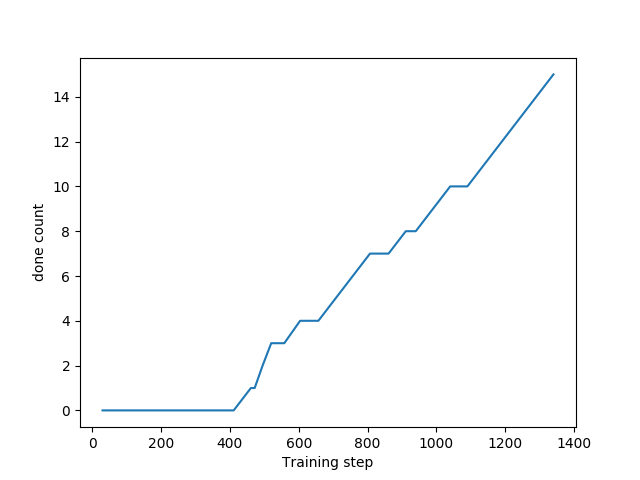
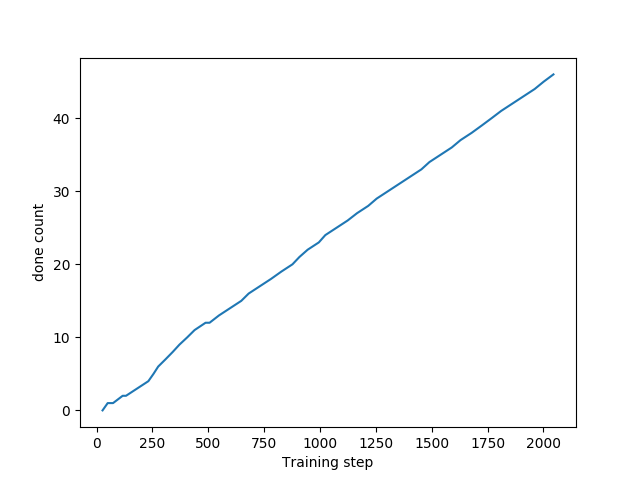
2 models

diff --git a/mpc_assembly.py b/mpc_assembly.py
@@ -94,13 +94,18 @@ class MPC:
         self.E=15
         self.input_size=self.action_dim+self.state_dim
         self.output_size=self.state_dim
-        self.model=ensemble(self.E,self.input_size,self.output_size).to(device)
+        self.model1=ensemble(self.E,self.input_size,self.output_size).to(device)
+        self.model2 = ensemble(self.E, self.input_size, self.output_size).to(device)
         self.has_trained = False
         if load:
-            self.model.load_state_dict(torch.load("/home/ali/RL_code/models/Real_pick_e15_u6_s9+12_p30.pth",map_location=device))
-            self.model.eval()
+            self.model1.load_state_dict(torch.load("/home/ali/RL_code/models/part1_e15_u6_s9+12_p30.pth",map_location=device))
+            self.model1.eval()
+            self.model2.load_state_dict(torch.load("/home/ali/RL_code/models/part2_e15_u6_s9+12_p30.pth", map_location=device))
+            self.model2.eval()
             self.has_trained=True
-        self.model.optim=torch.optim.Adam(self.model.parameters(),lr=0.001)
+        self.model1.optim=torch.optim.Adam(self.model1.parameters(),lr=0.001)
+        self.model2.optim = torch.optim.Adam(self.model2.parameters(), lr=0.001)
+        self.task_part=0
         self.init_rollouts = 5
         self.n_train_iter=50
         self.rol_per_iter=1
@@ -119,8 +124,10 @@ class MPC:
         self.init_variance=np.tile(np.square(self.action_ub-self.action_lb)/16.0,[self.horizon])
         # propagation parameters
         self.n_particles=30
-        self.train_in=np.array([]).reshape(0,self.action_dim+self.state_dim)
-        self.train_out=np.array([]).reshape(0,self.state_dim)
+        self.train_in1=np.array([]).reshape(0,self.action_dim+self.state_dim)
+        self.train_out1=np.array([]).reshape(0,self.state_dim)
+        self.train_in2 = np.array([]).reshape(0, self.action_dim + self.state_dim)
+        self.train_out2 = np.array([]).reshape(0, self.state_dim)
         # for plotting
         self.x=0
         self.count=0
@@ -151,7 +158,8 @@ class MPC:
             states.append(state)
             actions.append(action)
             state, reward, done, inf = self.env.step(action)
-            if inf!=None:
+            if inf!=self.task_part:
+                self.task_part=inf
                 states.pop(-1)
                 actions.pop(-1)
                 continue
@@ -193,19 +201,28 @@ class MPC:
         if not self.has_trained:
             # prepare inputs and output
             D_inputs, D_outputs = self.collect_data(n_rollouts=self.init_rollouts)
-            self.train_in = np.concatenate([self.train_in] + D_inputs, axis=0)
-            self.train_out = np.concatenate([self.train_out] + D_outputs, axis=0)
-            self.train_the_model()
+            self.train_in1 = np.concatenate([self.train_in1] + D_inputs, axis=0)
+            self.train_out1 = np.concatenate([self.train_out1] + D_outputs, axis=0)
+            self.train_the_model(self.model1,self.train_in1,self.train_out1)
         for i in range(num_trials):
             print("start training ...")
             D_inputs, D_outputs = self.collect_data(n_rollouts=self.rol_per_iter)
-            self.train_in = np.concatenate([self.train_in] + D_inputs, axis=0)
-            self.train_out = np.concatenate([self.train_out] + D_outputs, axis=0)
-            self.train_the_model()
+            if self.task_part==0:
+                self.train_in1 = np.concatenate([self.train_in1] + D_inputs, axis=0)
+                self.train_out1 = np.concatenate([self.train_out1] + D_outputs, axis=0)
+            else:
+                self.train_in2 = np.concatenate([self.train_in2] + D_inputs, axis=0)
+                self.train_out2 = np.concatenate([self.train_out2] + D_outputs, axis=0)
+            self.train_the_model(self.model1,self.train_in1,self.train_out1)
+            if self.task_part == 0:
+                self.train_the_model(self.model2,self.train_in2,self.train_out2)
+
             # self.evaluate(trial=i)
         # self.env.out.release()
-        torch.save(self.model.state_dict(),"/home/ali/RL_code/models/Real_pick_e15_u6_s9+12_p30.pth")
-        print("model saved!")
+            if i%5==0:
+                torch.save(self.model1.state_dict(),"/home/ali/RL_code/models/part1_e15_u6_s9+12_p30.pth")
+                torch.save(self.model2.state_dict(), "/home/ali/RL_code/models/part2_e15_u6_s9+12_p30.pth")
+                print("model saved!")
         plt.figure()
         plt.plot(self.xx, self.returns)
         plt.xlabel('Training step')
@@ -234,7 +251,7 @@ class MPC:
         for t in train_range:
             action = self.act(state)
             x += 1
-            state, reward, done, _ = self.env.step(action)
+            state, reward, done, self.task_part = self.env.step(action)
             if self.env.task_part==0:
                 center=self.env.part_1_center
             else:
@@ -254,11 +271,11 @@ class MPC:
         plt.show()
 
 
-    def train_the_model(self):
-        self.model.get_input_stats(self.train_in)
+    def train_the_model(self,model,train_in,train_out):
+        model.get_input_stats(train_in)
         # sample from the data
         # E datasets, one for each neural network in the ensemble
-        idx=np.random.randint(self.train_in.shape[0],size=[self.E,self.train_in.shape[0]])
+        idx=np.random.randint(train_in.shape[0],size=[self.E,train_in.shape[0]])
         epoch_range=trange(self.epochs)
         num_batches=int(np.ceil(idx.shape[-1]/self.batch_size))
         for _ in epoch_range:
@@ -266,30 +283,30 @@ class MPC:
                 # take a batch
                 b_indx=idx[:,b*self.batch_size:(b+1)*self.batch_size]
                 # define the loss of the uncertainty and decay
-                loss=0.01*(self.model.max_logvar.sum()-self.model.min_logvar.sum())
-                loss+=self.model.compute_decays()
+                loss=0.01*(model.max_logvar.sum()-model.min_logvar.sum())
+                loss+=model.compute_decays()
                 # move data to GPU
-                train_in=torch.from_numpy(self.train_in[b_indx]).to(device).float()
-                train_out=torch.from_numpy(self.train_out[b_indx]).to(device).float()
+                train_in_=torch.from_numpy(train_in[b_indx]).to(device).float()
+                train_out_=torch.from_numpy(train_out[b_indx]).to(device).float()
                 # compute the output of the model
-                mean,logvar=self.model(train_in)
+                mean,logvar=model(train_in_)
                 # print(logvar)
                 inv_var=torch.exp(-logvar)
                 # compute the losses (to a scalar)
-                train_losses=((mean-train_out)**2)*inv_var+logvar
+                train_losses=((mean-train_out_)**2)*inv_var+logvar
                 train_losses=train_losses.mean(-1).mean(-1).sum()
                 # compute the full loss
                 loss+=train_losses
                 # train the model
-                self.model.optim.zero_grad()
+                model.optim.zero_grad()
                 loss.backward()
-                self.model.optim.step()
+                model.optim.step()
             idx=self.shufle_rows(idx)
         # just to get the loss
-        train_in = torch.from_numpy(self.train_in[idx[:5000]]).to(device).float()
-        train_out = torch.from_numpy(self.train_out[idx[:5000]]).to(device).float()
-        mean, _ = self.model(train_in)
-        train_losses = ((mean - train_out) ** 2).mean(-1).mean(-1)
+        train_in_ = torch.from_numpy(train_in[idx[:5000]]).to(device).float()
+        train_out_ = torch.from_numpy(train_out[idx[:5000]]).to(device).float()
+        mean, _ = model(train_in_)
+        train_losses = ((mean - train_out_) ** 2).mean(-1).mean(-1)
         print(train_losses.detach().cpu().numpy())
         self.has_trained=True
 
@@ -395,7 +412,10 @@ class MPC:
         #get the output of the model
         inputs=torch.cat((state,action),dim=-1)
         # mean [5,1600,10]
-        mean,logvar=self.model(inputs)
+        if self.task_part==0:
+            mean,logvar=self.model1(inputs)
+        else:
+            mean, logvar = self.model2(inputs)
         var=torch.exp(logvar)
         predicted_state=mean+torch.randn_like(mean,device=device)*var.sqrt()
         # [5,1600,10]

diff --git a/env/env_real_cam.py b/env/env_real_cam.py
@@ -129,7 +129,7 @@ class rozum_real:
         # self.action_bound = [[-15,15],[-10,110],[-30,30],[-120,120],[-180,180],[-180,180]]
         self.action_bound = [[-240, -180], [-180, 180], [-180, 180], [-220, -100], [-180, 180], [-180, 180]]
         self.action_range = [-5, 5]
-        self.cam = VideoCapture(2)
+        self.cam = VideoCapture(0)
         self.w = self.cam.cap.get(cv2.CAP_PROP_FRAME_WIDTH)
         self.h = self.cam.cap.get(cv2.CAP_PROP_FRAME_HEIGHT)
 
@@ -235,14 +235,14 @@ class rozum_real:
         s = np.concatenate([features, sin_cos], axis=0)
         if features[2] < 0.05:
             done = True
-            return s, r, done, None
+            return s, r, done, self.task_part
         if max(self.currents)>0.1:
             done = True
-            return s, r, done, None
+            return s, r, done, self.task_part
         d = np.linalg.norm(features[:2] - target)
         # print("d",d)
         r += (-d - 0.01 * np.square(action).sum())
-        if d < 0.03 and self.task_part == 0:
+        if d < 0.05 and self.task_part == 0:
             # d_full = np.linalg.norm(features - self.task_1_target)
             # print("inside:",d_full)
             # if d_full < 0.08:
@@ -254,7 +254,7 @@ class rozum_real:
                 time.sleep(1)
                 r += 10
                 self.task_part = 1
-                return s, r, done, 1
+                return s, r, done, self.task_part
         if d < 0.05 and self.task_part == 1:
             # d_full = np.linalg.norm(features - self.task_1_target)
             # if d_full < 0.05:
@@ -272,8 +272,8 @@ class rozum_real:
                 self.robot.open_gripper()
                 done = True
                 r+=300
-                return s, r, done, None
-        return s, r, done, None
+                return s, r, done, self.task_part
+        return s, r, done, self.task_part
 
     def reset(self):
         self.task_part = 0
@@ -315,8 +315,9 @@ class rozum_real:
             if torch.max(area_diff)<0.05:
                 k1=0.7
                 k2=0.9
-        k1=1.0
-        k2=1.0
+        if self.task_part==0:
+            k1=1.0
+            k2=1.0
         cost = (dis ** 2).sum(dim=-1) + torch.mul((area_diff ** 2), k1)+torch.mul((angle_diff ** 2).sum(dim=-1), k2)
         cost = -torch.exp(-cost)
         cost[state[:, 2] < 0.1] = 1e6
